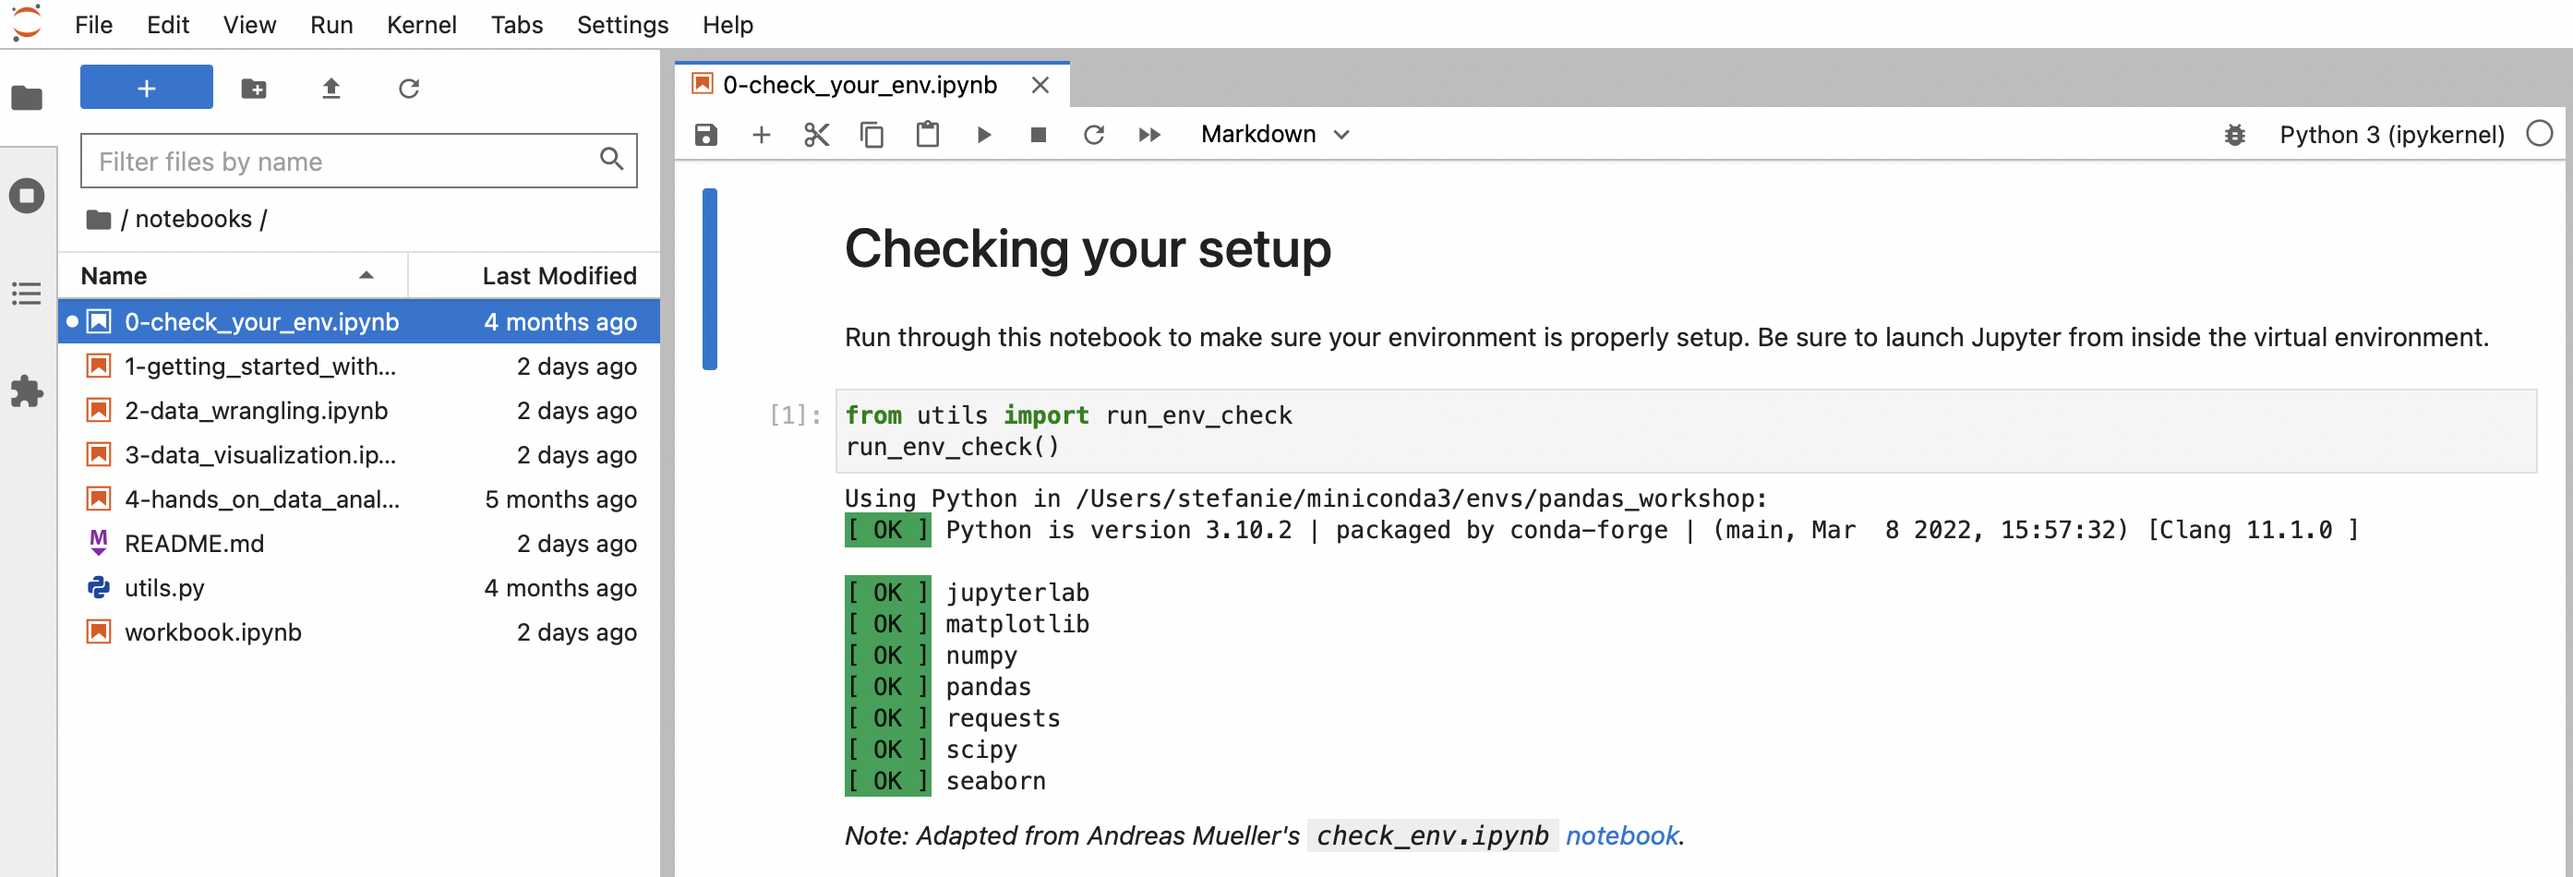
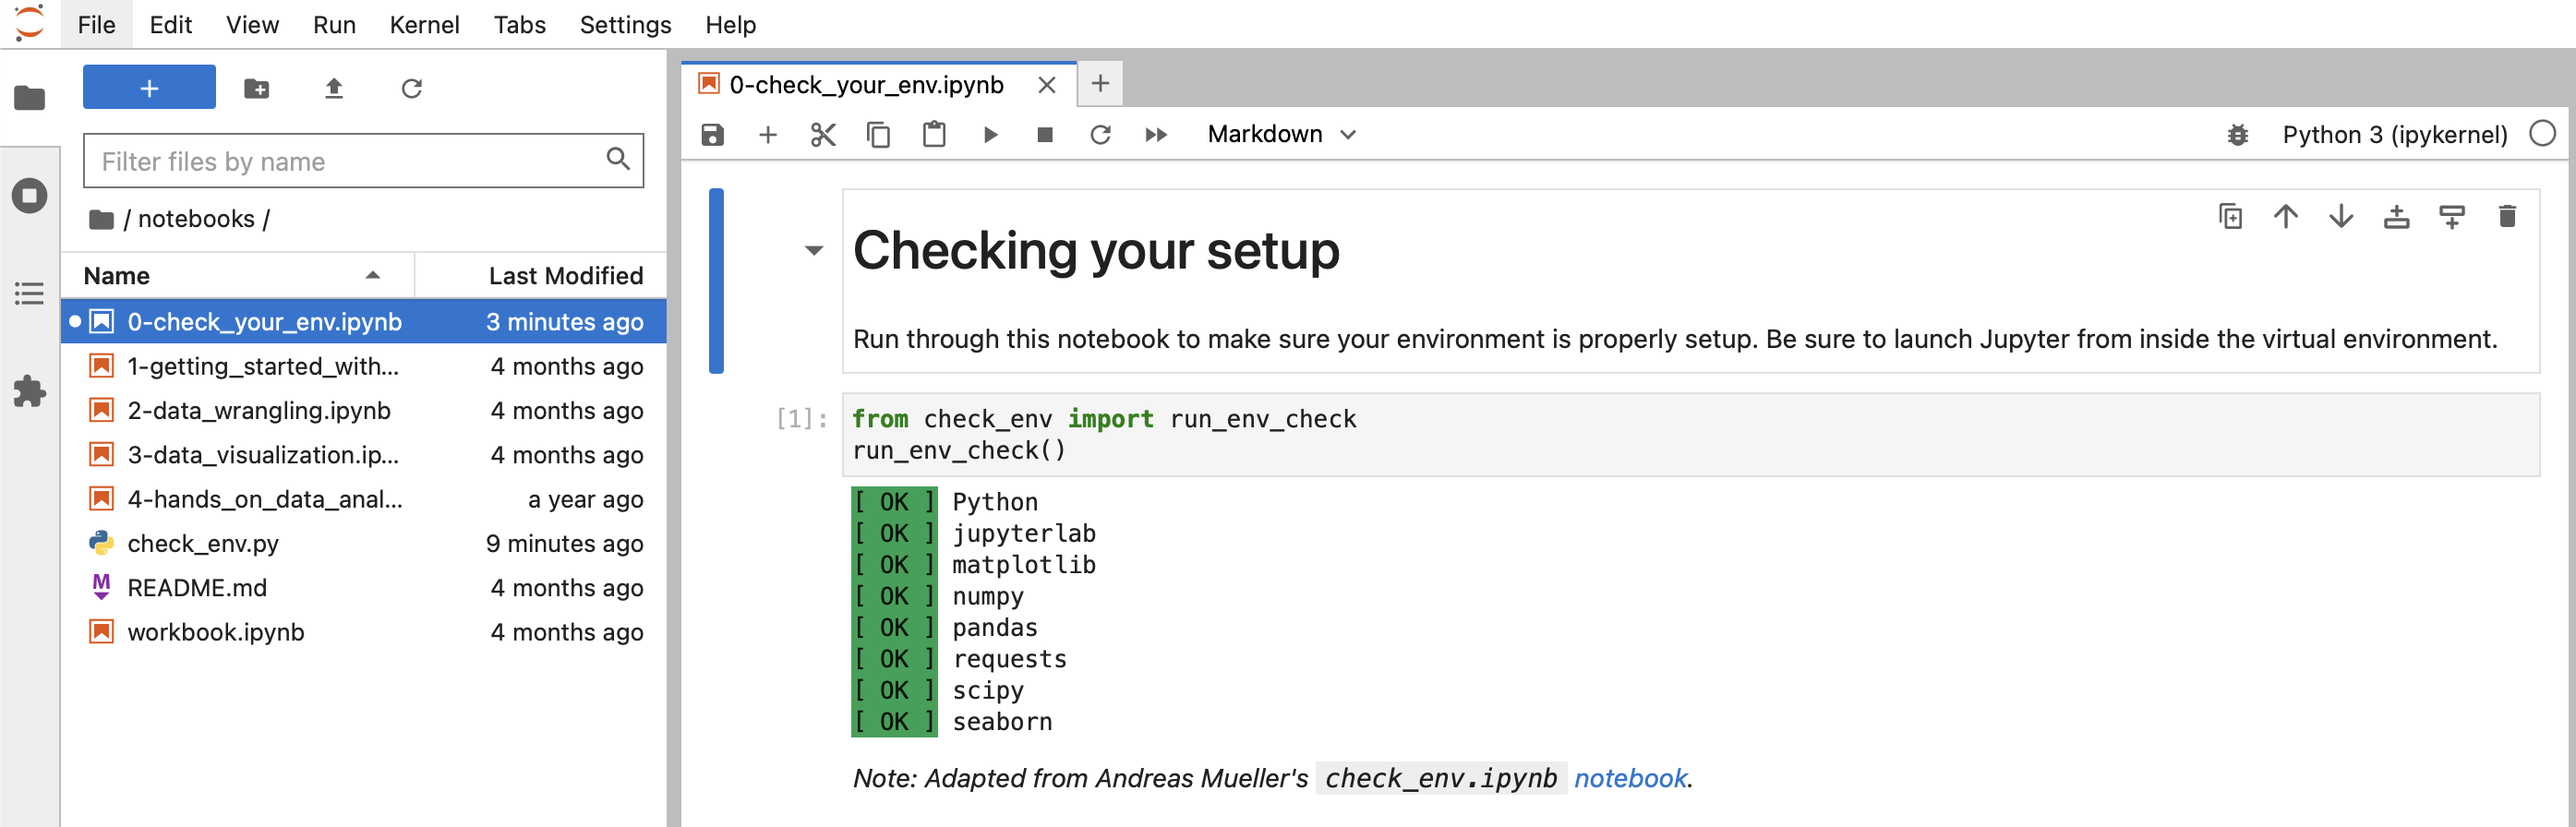
Rework env check.

diff --git a/notebooks/check_env.py b/notebooks/check_env.py
@@ -1,0 +1,161 @@
+"""Check the setup for the workshop."""
+
+from functools import partial
+from packaging.version import Version
+import importlib
+import json
+import os
+import sys
+import yaml
+
+
+def _print_version_ok(item):
+    """
+    Print an OK message for version check.
+
+    Parameters
+    ----------
+    item : str
+        The item being inspected (package, tool, etc.).
+    """
+    print('\x1b[42m[ OK ]\x1b[0m', '%s' % item)
+
+def _print_version_failure(item, req_version, version, failures):
+    """
+    Print a failure message for version check.
+
+    Parameters
+    ----------
+    item : str
+        The item being inspected (package, tool, etc.).
+    req_version : str
+        The required version.
+    version : str
+        The version currently installed.
+    failures : list
+        The list of items currently failing the environment check.
+    """
+    failures.append(item)
+    if version:
+        msg = '%s version %s is required, but %s installed.'
+        values = (item, req_version, version)
+    else:
+        msg = '%s is not installed.'
+        values = item
+    print('\x1b[41m[FAIL]\x1b[0m', msg % values)
+
+def run_env_check(raise_exc=False):
+    """
+    Check that the packages we need are installed and, if necessary,
+    whether the Python version is correct.
+
+    Parameters
+    ----------
+    raise_exc : bool, default ``False``
+        Whether to raise an `Exception` if any of the packages doesn't
+        match the requirements (used for GitHub Action).
+    """
+    
+    failures = []
+    _print_failure = partial(_print_version_failure, failures=failures)
+
+    # read in the environment file and process versions
+    with open('../environment.yml', 'r') as file:
+        env = yaml.safe_load(file)
+
+    requirements = {}
+    for line in env['dependencies']:
+        try:
+            if '>=' in line:
+                pkg, versions = line.split('>=')
+                if ',<=' in versions:
+                    version = versions.split(',<=')
+                else:
+                    version = [versions, None]
+            else:
+                pkg, version = line.split('=')
+        except ValueError:
+            pkg, version = line, None
+        if '-' in pkg:
+            continue
+        requirements[pkg.split('::')[-1]] = version
+
+    # check the python version, if provided
+    try:
+        required_version = requirements.pop('python')
+        python_version = sys.version_info
+        base_python_version = Version(
+            f'{python_version.major}.{python_version.minor}.{python_version.micro}'
+        )
+        if isinstance(required_version, list):
+            min_version, max_version = (
+                Version(version_str) for version_str in required_version
+            )
+            if (
+                min_version > base_python_version
+                or (
+                    max_version and base_python_version > max_version
+                )
+            ):
+                print(f'Using Python at {sys.prefix}:\n-> {sys.version}')
+                _print_failure(
+                    'Python',
+                    f'>= {min_version}{f" and <= {max_version}" if max_version else ""}',
+                    base_python_version
+                )
+            else:
+                _print_version_ok('Python')
+        else:
+            for component, value in zip(
+                ['major', 'minor', 'micro'], required_version.split('.')
+            ):
+                if getattr(python_version, component) != int(value):
+                    print(f'Using Python at {sys.prefix}:\n-> {sys.version}')
+                    _print_failure(
+                        'Python',
+                        required_version,
+                        f'{python_version.major}.{python_version.minor}'
+                    )
+                    break
+            else:
+                _print_version_ok('Python')
+    except KeyError:
+        pass
+
+    for pkg, req_version in requirements.items():
+        try:
+            mod = importlib.import_module(pkg)
+            if req_version:
+                version = mod.__version__
+                installed_version = Version(version).base_version
+                if isinstance(req_version, list):
+                    min_version, max_version = req_version
+                    if (
+                        installed_version < Version(min_version).base_version
+                        or (
+                            max_version and
+                            installed_version > Version(max_version).base_version
+                        )
+                    ):
+                        _print_failure(
+                            pkg,
+                            f'>= {min_version}{f" and <= {max_version}" if max_version else ""}',
+                            version
+                        )
+                        continue
+                elif Version(version).base_version != Version(req_version).base_version:
+                    _print_failure(pkg, req_version, version)
+                    continue
+            _print_version_ok(pkg)
+        except ImportError:
+            _print_failure(pkg, req_version, None)
+
+    if failures and raise_exc:
+        raise Exception(
+            'Environment failed inspection due to incorrect versions '
+            f'of {len(failures)} item(s): {", ".join(failures)}.'
+        )
+
+if __name__ == '__main__':
+    print(f'Using Python at {sys.prefix}:\n-> {sys.version}')
+    run_env_check(raise_exc=True)
